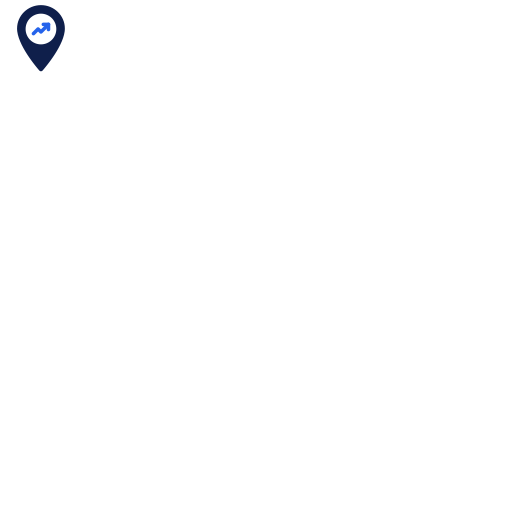
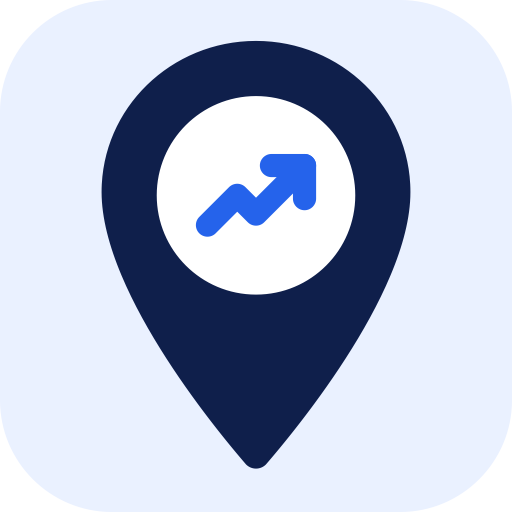
Фавиконка: пин по центру на светлой плитке (старые файлы были пустым белым квадратом с точкой в углу); ?v=2 против кеша

Changed region(s): [[0.1875, 0.0625, 0.8125, 0.9375], [0.375, 0.2812, 0.625, 0.4688], [0.0312, 0.0, 0.125, 0.1562]]

diff --git a/landing.html b/landing.html
@@ -11,10 +11,10 @@
   <script src="/analytics.js" defer></script>
   <meta name="description" content="Find out your real chances at every school on your list and what each would actually cost after financial aid. Free, takes 5 minutes, no card needed.">
   <link rel="canonical" href="https://www.admitmap.app/">
-  <link rel="icon" type="image/png" sizes="32x32" href="/assets/icon-32.png">
-  <link rel="icon" type="image/png" sizes="512x512" href="/assets/icon-512.png">
+  <link rel="icon" type="image/png" sizes="32x32" href="/assets/icon-32.png?v=2">
+  <link rel="icon" type="image/png" sizes="512x512" href="/assets/icon-512.png?v=2">
   <link rel="icon" href="/favicon.ico" sizes="any">
-  <link rel="apple-touch-icon" sizes="180x180" href="/assets/icon-180.png">
+  <link rel="apple-touch-icon" sizes="180x180" href="/assets/icon-180.png?v=2">
   <meta name="theme-color" content="#2563eb">
   <meta property="og:type" content="website">
   <meta property="og:site_name" content="AdmitMap">
@@ -2638,7 +2638,7 @@
             ::selection { background: #dbeafe; }
         }
 </style>
-  <script type="application/ld+json">{"@context": "https://schema.org", "@type": "Organization", "name": "AdmitMap", "url": "https://www.admitmap.app/", "logo": "https://www.admitmap.app/assets/icon-512.png", "email": "support@admitmap.app", "description": "Acceptance odds and real cost after aid for US colleges."}</script>
+  <script type="application/ld+json">{"@context": "https://schema.org", "@type": "Organization", "name": "AdmitMap", "url": "https://www.admitmap.app/", "logo": "https://www.admitmap.app/assets/icon-512.png?v=2", "email": "support@admitmap.app", "description": "Acceptance odds and real cost after aid for US colleges."}</script>
 </head>
 
 <body>

diff --git a/paywall.html b/paywall.html
@@ -14,8 +14,8 @@ if (window.innerWidth > 700) location.replace('paywall-desktop.html?ready=1' + l
 <script src="/analytics.js" defer></script>
 <meta name="description" content="Your acceptance odds and real cost, school by school.">
 <link rel="canonical" href="https://www.admitmap.app/paywall">
-<link rel="icon" type="image/png" sizes="32x32" href="/assets/icon-32.png">
-<link rel="apple-touch-icon" sizes="180x180" href="/assets/icon-180.png">
+<link rel="icon" type="image/png" sizes="32x32" href="/assets/icon-32.png?v=2">
+<link rel="apple-touch-icon" sizes="180x180" href="/assets/icon-180.png?v=2">
 <meta name="theme-color" content="#2563eb">
 <meta property="og:type" content="website">
 <meta property="og:site_name" content="AdmitMap">

diff --git a/funnel.html b/funnel.html
@@ -11,8 +11,8 @@
   <script src="/analytics.js" defer></script>
   <meta name="description" content="Five minutes to your odds and real cost at every school on your list.">
   <link rel="canonical" href="https://www.admitmap.app/funnel">
-  <link rel="icon" type="image/png" sizes="32x32" href="/assets/icon-32.png">
-  <link rel="apple-touch-icon" sizes="180x180" href="/assets/icon-180.png">
+  <link rel="icon" type="image/png" sizes="32x32" href="/assets/icon-32.png?v=2">
+  <link rel="apple-touch-icon" sizes="180x180" href="/assets/icon-180.png?v=2">
   <meta name="theme-color" content="#2563eb">
   <meta property="og:type" content="website">
   <meta property="og:site_name" content="AdmitMap">

diff --git a/paywall-desktop.html b/paywall-desktop.html
@@ -12,8 +12,8 @@
   <script src="/analytics.js" defer></script>
   <meta name="description" content="Your acceptance odds and real cost, school by school.">
   <link rel="canonical" href="https://www.admitmap.app/paywall">
-  <link rel="icon" type="image/png" sizes="32x32" href="/assets/icon-32.png">
-  <link rel="apple-touch-icon" sizes="180x180" href="/assets/icon-180.png">
+  <link rel="icon" type="image/png" sizes="32x32" href="/assets/icon-32.png?v=2">
+  <link rel="apple-touch-icon" sizes="180x180" href="/assets/icon-180.png?v=2">
   <meta name="theme-color" content="#2563eb">
   <meta property="og:type" content="website">
   <meta property="og:site_name" content="AdmitMap">

diff --git a/privacy.html b/privacy.html
@@ -7,8 +7,8 @@
     <title>Privacy Policy — AdmitMap</title>
   <meta name="description" content="How AdmitMap handles your data.">
   <link rel="canonical" href="https://www.admitmap.app/privacy">
-  <link rel="icon" type="image/png" sizes="32x32" href="/assets/icon-32.png">
-  <link rel="apple-touch-icon" sizes="180x180" href="/assets/icon-180.png">
+  <link rel="icon" type="image/png" sizes="32x32" href="/assets/icon-32.png?v=2">
+  <link rel="apple-touch-icon" sizes="180x180" href="/assets/icon-180.png?v=2">
   <meta name="theme-color" content="#2563eb">
   <meta property="og:type" content="website">
   <meta property="og:site_name" content="AdmitMap">

diff --git a/terms.html b/terms.html
@@ -7,8 +7,8 @@
     <title>Terms of Service — AdmitMap</title>
   <meta name="description" content="AdmitMap terms of service.">
   <link rel="canonical" href="https://www.admitmap.app/terms">
-  <link rel="icon" type="image/png" sizes="32x32" href="/assets/icon-32.png">
-  <link rel="apple-touch-icon" sizes="180x180" href="/assets/icon-180.png">
+  <link rel="icon" type="image/png" sizes="32x32" href="/assets/icon-32.png?v=2">
+  <link rel="apple-touch-icon" sizes="180x180" href="/assets/icon-180.png?v=2">
   <meta name="theme-color" content="#2563eb">
   <meta property="og:type" content="website">
   <meta property="og:site_name" content="AdmitMap">

diff --git a/refunds.html b/refunds.html
@@ -7,8 +7,8 @@
     <title>Refund Policy — AdmitMap</title>
   <meta name="description" content="AdmitMap refund policy.">
   <link rel="canonical" href="https://www.admitmap.app/refunds">
-  <link rel="icon" type="image/png" sizes="32x32" href="/assets/icon-32.png">
-  <link rel="apple-touch-icon" sizes="180x180" href="/assets/icon-180.png">
+  <link rel="icon" type="image/png" sizes="32x32" href="/assets/icon-32.png?v=2">
+  <link rel="apple-touch-icon" sizes="180x180" href="/assets/icon-180.png?v=2">
   <meta name="theme-color" content="#2563eb">
   <meta property="og:type" content="website">
   <meta property="og:site_name" content="AdmitMap">

diff --git a/report.html b/report.html
@@ -7,8 +7,8 @@
 <meta http-equiv="Expires" content="0">
   <title>Your SnapScore Report · AdmitMap</title>
   <meta name="robots" content="noindex, nofollow">
-  <link rel="icon" type="image/png" sizes="32x32" href="/assets/icon-32.png">
-  <link rel="apple-touch-icon" sizes="180x180" href="/assets/icon-180.png">
+  <link rel="icon" type="image/png" sizes="32x32" href="/assets/icon-32.png?v=2">
+  <link rel="apple-touch-icon" sizes="180x180" href="/assets/icon-180.png?v=2">
   <meta name="theme-color" content="#c9dcf5">
   <style>
     * { margin: 0; padding: 0; box-sizing: border-box; }

diff --git a/loading.html b/loading.html
@@ -8,7 +8,7 @@
 <meta name="viewport" content="width=device-width, initial-scale=1.0">
 <title>Building your report · AdmitMap</title>
 <meta name="robots" content="noindex, nofollow">
-<link rel="icon" type="image/png" sizes="32x32" href="/assets/icon-32.png">
+<link rel="icon" type="image/png" sizes="32x32" href="/assets/icon-32.png?v=2">
 <meta name="theme-color" content="#e6effd">
 <link rel="preconnect" href="https://fonts.googleapis.com">
 <link rel="preconnect" href="https://fonts.gstatic.com" crossorigin>
